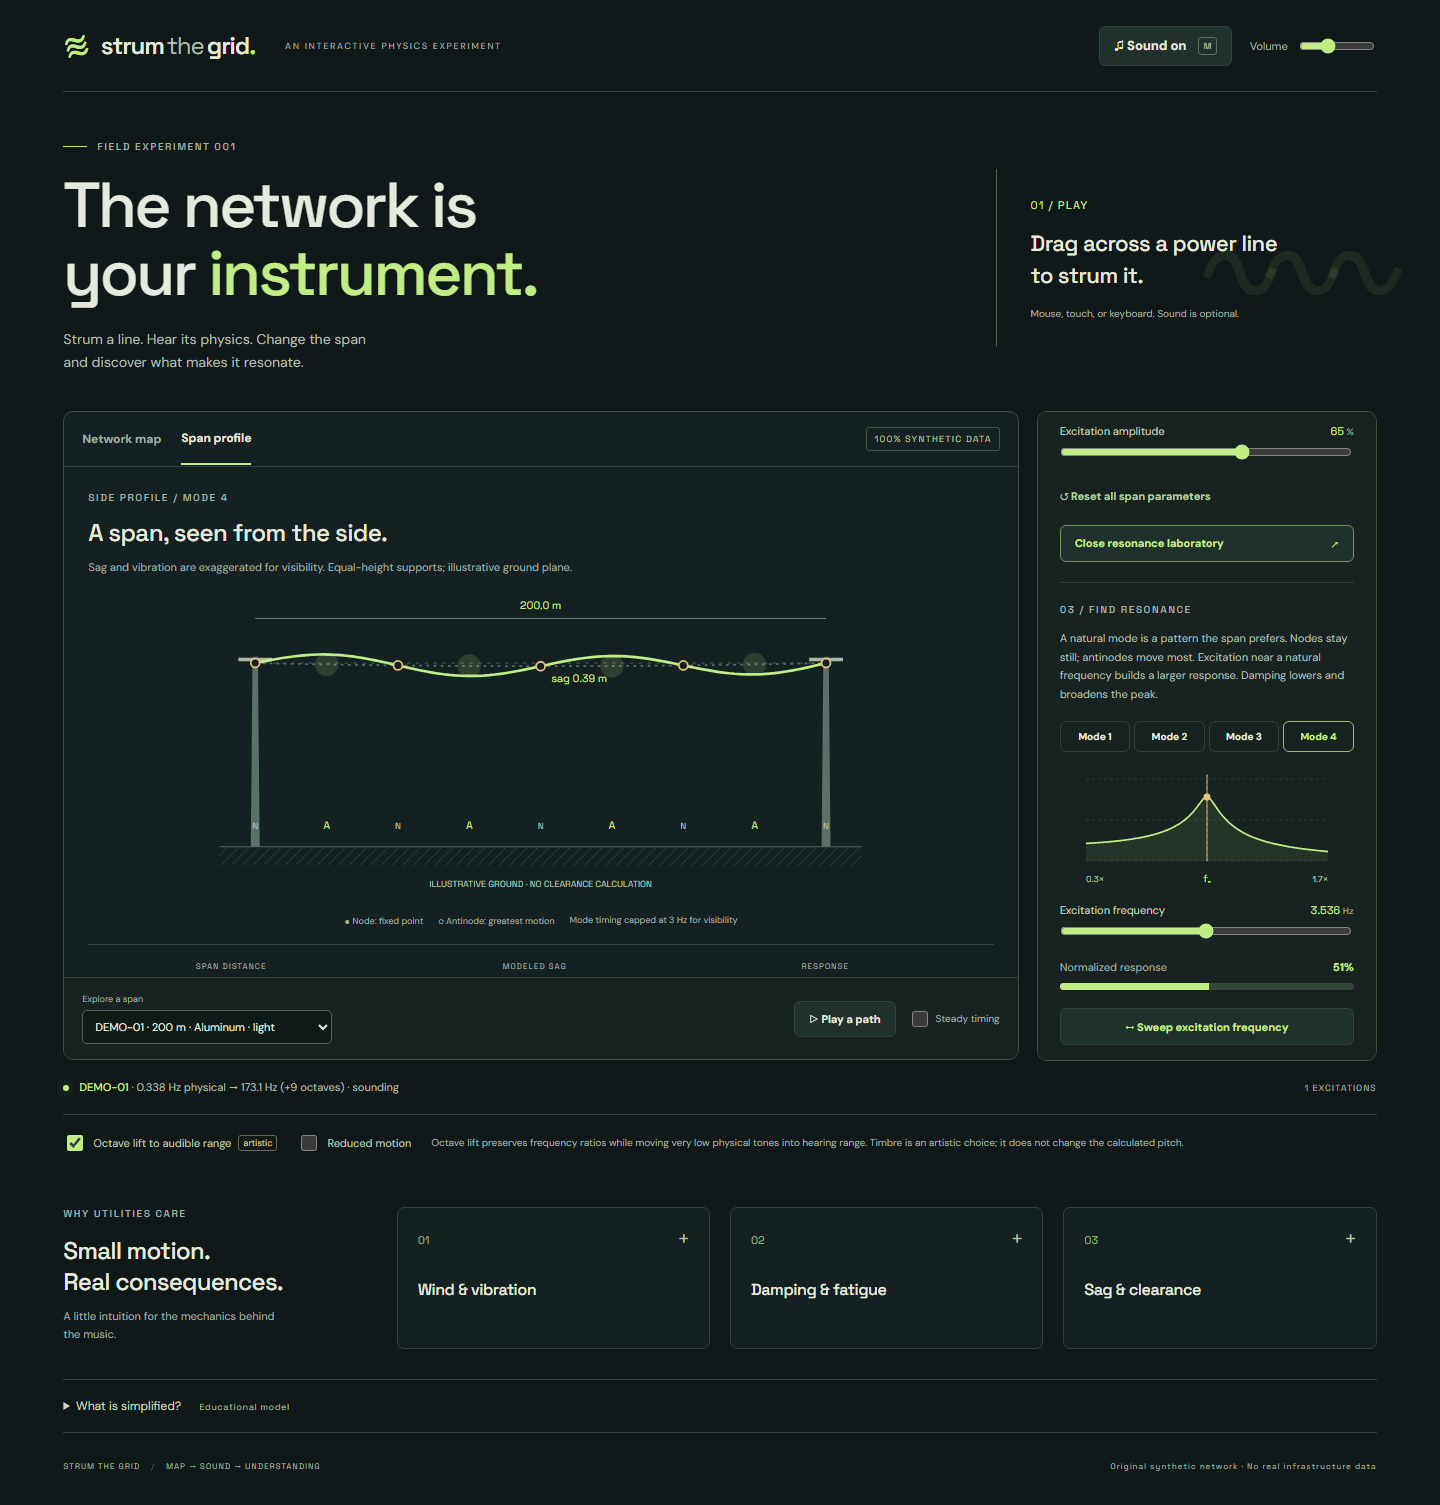
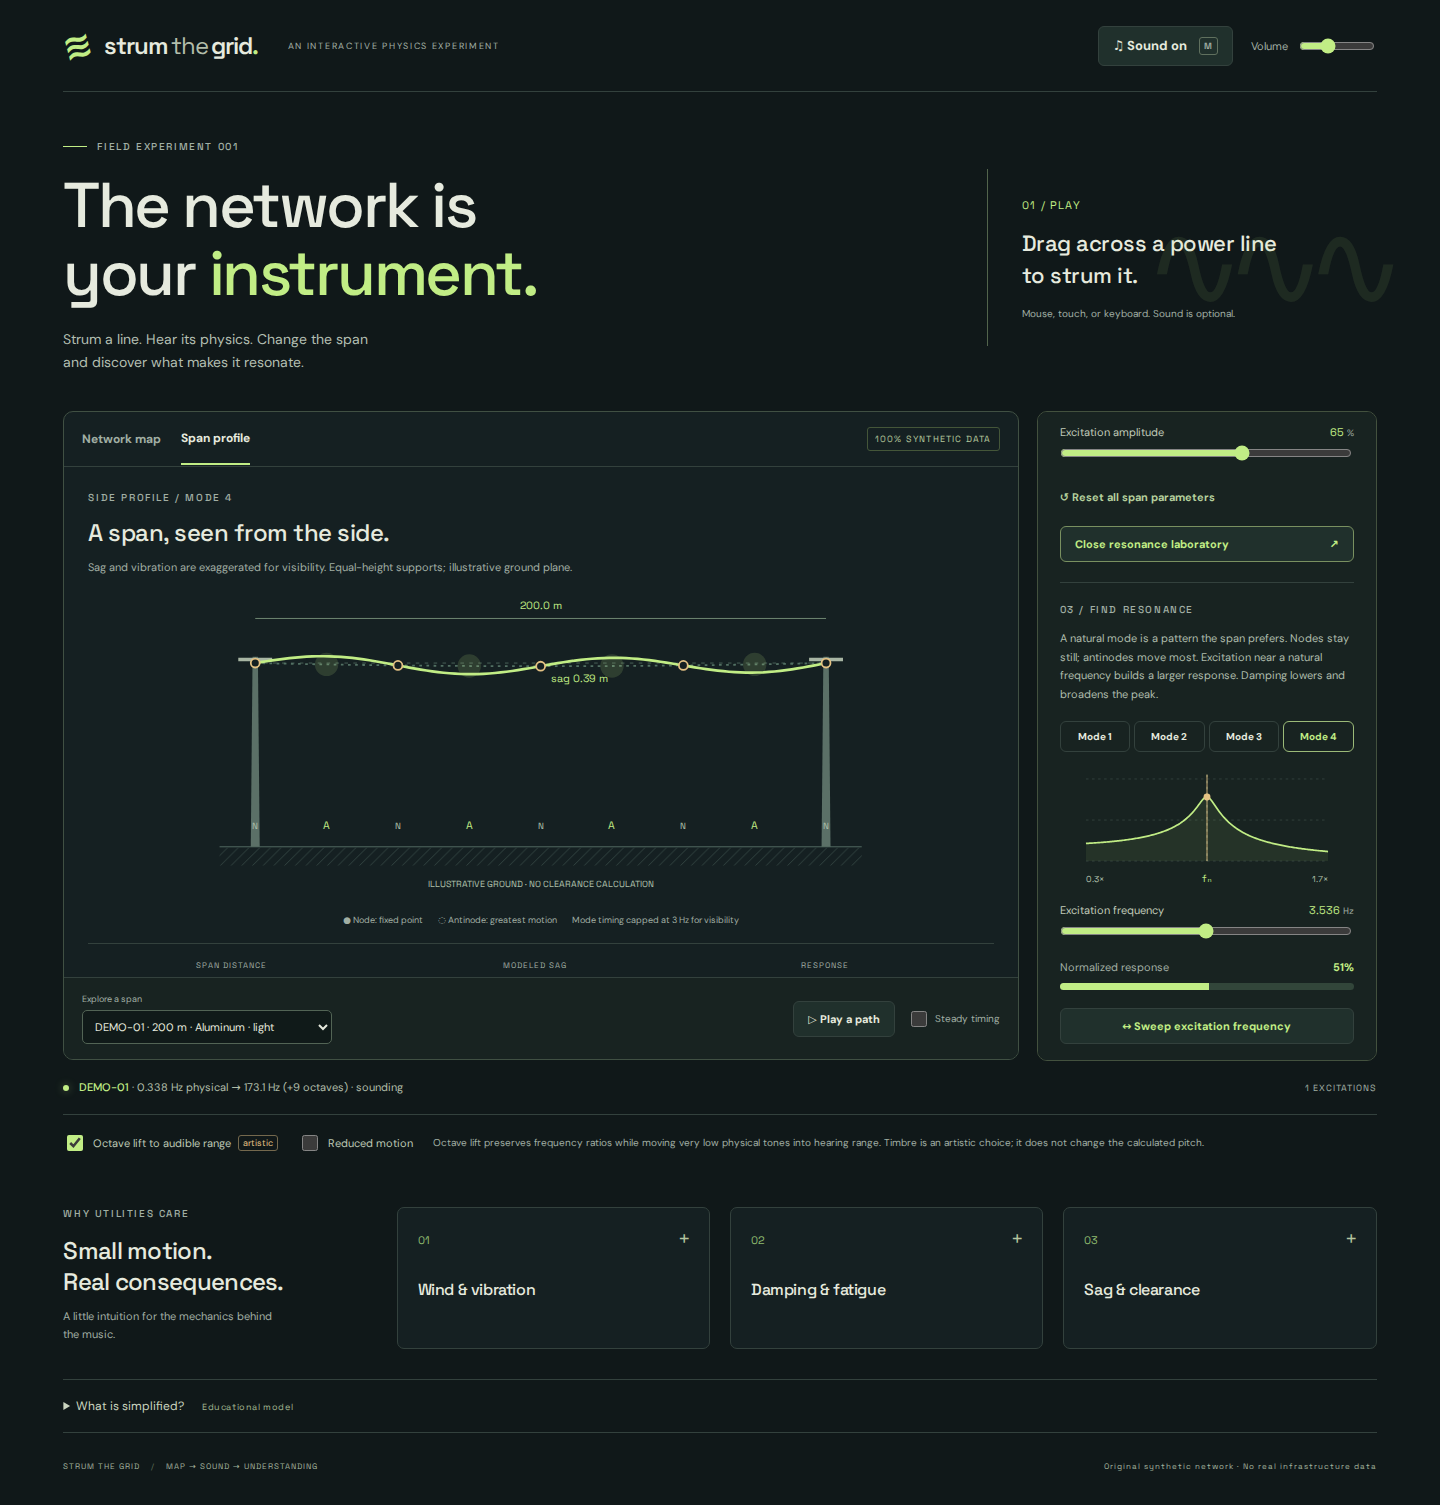
docs: publish verified GitHub Pages demo link

diff --git a/README.md b/README.md
@@ -4,9 +4,11 @@ A browser instrument that turns a **fictional overhead network** into playable s
 
 Built with React, TypeScript, Vite, the ArcGIS Maps SDK for JavaScript, and Web Audio. The default experience runs entirely from bundled synthetic GeoJSON with local SDK assets and fonts: no backend, account, API key, basemap service, or real infrastructure data is needed.
 
-![Synthetic network instrument, captured from the local static build](./docs/screenshots/network.png)
+**[Play the live demo on GitHub Pages](https://danmaps.github.io/strum-the-grid/).**
 
-![Four-mode resonance laboratory, captured from the local static build](./docs/screenshots/laboratory.png)
+![Synthetic network instrument, captured from the live GitHub Pages demo](./docs/screenshots/network.png)
+
+![Four-mode resonance laboratory, captured from the live GitHub Pages demo](./docs/screenshots/laboratory.png)
 
 ## Run locally
 
@@ -55,19 +57,21 @@ npm run preview
 
 Host `dist/` on any static host. For a subdirectory, set `VITE_BASE_PATH` during the build, e.g. `/strum-the-grid/`; Vite modules, fonts, and ArcGIS assets resolve relative to it. No client secrets are required.
 
-`.github/workflows/ci.yml` runs all checks and desktop/mobile browser tests on pull requests and `main`. `.github/workflows/deploy.yml` gates deployment on the same checks and publishes `main` to GitHub Pages using `/strum-the-grid/`. In repository **Settings → Pages**, choose **GitHub Actions** as the source. Pages must be available for the repository's visibility and account plan. Setup currently returns HTTP 422 because the current plan does not support Pages for this private repository; make the repository public or enable a compatible plan before retrying.
+`.github/workflows/ci.yml` runs all checks and desktop/mobile browser tests on pull requests and `main`. `.github/workflows/deploy.yml` gates deployment on the same checks and publishes `main` to GitHub Pages using `/strum-the-grid/`. This public repository has Pages enabled with **GitHub Actions** as the source. For a new repository, configure that source in **Settings → Pages** and ensure Pages is available for its visibility and account plan.
 
-Deployment skips unless the repository Actions variable `PAGES_ENABLED` is exactly `true`, preventing failed deployment attempts while Pages is unavailable. After Pages setup, add that variable in **Settings → Secrets and variables → Actions → Variables**, then push to `main` or run **Deploy GitHub Pages** from the Actions tab. Remove the variable or set it to `false` to pause publishing. Quality checks continue independently on every push and pull request.
+Deployment runs when the repository Actions variable `PAGES_ENABLED` is exactly `true`, as it is here. After Pages setup, add that variable in **Settings → Secrets and variables → Actions → Variables**, then push to `main` or run **Deploy GitHub Pages** from the Actions tab. Remove the variable or set it to `false` to pause publishing. Quality checks continue independently on every push and pull request.
 
-The deployment job reports the actual site URL. The `verify-hosted` job then runs all four desktop/mobile scenarios against that URL, checking the public learning loop, keyboard/touch interaction, audio, and hosted assets. Its screenshots and failure traces are saved as `hosted-browser-test-results`. A live demo link will be added after successful publishing and verification.
+The deployment job reports the actual site URL. The `verify-hosted` job then runs all four desktop/mobile scenarios against that URL, checking the public learning loop, keyboard/touch interaction, audio, and hosted assets. Its screenshots and failure traces are saved as `hosted-browser-test-results`.
+
+[The first public deployment and all four hosted browser checks passed](https://github.com/danmaps/strum-the-grid/actions/runs/37071351111) on October 2, 2026. The screenshots above were captured during that hosted run.
 
 To repeat the checks against an existing deployment, set `PLAYWRIGHT_BASE_URL` to the full site URL, including its subdirectory and trailing slash. This skips the local preview server and does not require a local build:
 
 ```sh
-PLAYWRIGHT_BASE_URL=https://YOUR-HOST/strum-the-grid/ npm run test:browser
+PLAYWRIGHT_BASE_URL=https://danmaps.github.io/strum-the-grid/ npm run test:browser
 ```
 
-In PowerShell, use `$env:PLAYWRIGHT_BASE_URL = 'https://YOUR-HOST/strum-the-grid/'` followed by `npm run test:browser`. Install Playwright Chromium first as described above.
+In PowerShell, use `$env:PLAYWRIGHT_BASE_URL = 'https://danmaps.github.io/strum-the-grid/'` followed by `npm run test:browser`. Install Playwright Chromium first as described above.
 
 ## Architecture
 

diff --git a/docs/IMPLEMENTATION.md b/docs/IMPLEMENTATION.md
@@ -1,6 +1,6 @@
 # MVP acceptance map
 
-This implementation covers the local, deployable behavior requested in issues #1–#12. Live hosting depends on enabling GitHub Pages and publishing these changes; real-device and cross-browser evaluation remains a separate validation step.
+This implementation covers the MVP behavior requested in issues #1–#12. The [public GitHub Pages demo](https://danmaps.github.io/strum-the-grid/) is deployed and verified on desktop Chromium and Chromium mobile emulation; real-device and cross-browser evaluation remains a separate validation step.
 
 | Issue | Behavior and evidence |
 | --- | --- |
@@ -19,7 +19,7 @@ This implementation covers the local, deployable behavior requested in issues #1
 
 ## Verification scope
 
-Local verification: TypeScript typecheck, ESLint, all 29 tests in six unit/integration suites, production build, and four desktop/mobile Chromium end-to-end scenarios pass. npm dependency audit reports zero vulnerabilities. Browser runs check the compiled static output rather than depending on development-server behavior. [Remote quality checks passed for the MVP](https://github.com/danmaps/strum-the-grid/actions/runs/37065892382); live hosting remains pending the repository's Pages eligibility.
+TypeScript typecheck, ESLint, all 29 tests in six unit/integration suites, production build, and four desktop/mobile Chromium end-to-end scenarios pass locally and in CI. npm dependency audit reports zero vulnerabilities. Browser runs check the compiled static output rather than depending on development-server behavior. The [successful Pages workflow](https://github.com/danmaps/strum-the-grid/actions/runs/37071351111) built and tested the subdirectory deployment, published it, and passed all four browser scenarios against the public HTTPS URL on October 2, 2026. The hosted checks found no uncaught errors, HTTP asset failures, unexpected external requests, or mobile horizontal overflow.
 
 - Unit/integration suites test physical laws and responses, data/adapter contracts, immutable experiments, gesture ordering, Web Audio handoff/voice management, and cancellation/connectivity of sequencing.
 - End-to-end suites exercise actual ArcGIS rendering on desktop Chromium and touch-capable mobile Chromium emulation. They cover enable audio, map selection and strum, tension/frequency/sag changes, four-mode resonance, silent/reduced-motion use, keyboard play and stoppable sequencing, while checking no uncaught errors/external requests or mobile horizontal overflow.
@@ -27,5 +27,4 @@ Local verification: TypeScript typecheck, ESLint, all 29 tests in six unit/integ
 - The full demo contains 39 spans. Larger networks, low-end physical phones, pen hardware, Firefox/Safari, and engineering validation are not represented by Chromium emulation or by this educational dataset.
 - No real-data adapter is implemented. Bundled geography is invented; SDK assets and dependencies are build inputs rather than utility records.
 - Production publishing is gated on quality checks and browser tests. After publishing, the deployment workflow runs the same four scenarios against the actual Pages URL, including HTTP asset failures and unexpected external requests. `PLAYWRIGHT_BASE_URL` also allows repeatable checks against an existing deployment without starting a local server.
-- Pages setup returned HTTP 422: the current plan does not support Pages for this private repository. Publishing and the README demo URL require either public repository visibility or a compatible plan. No live deployment is claimed until hosted verification passes.
-- Deployment jobs skip until the repository Actions variable `PAGES_ENABLED` is set to `true` after Pages setup. This prevents repeated deployment failures while hosting is unavailable; quality checks remain automatic.
+- Pages is enabled for this public repository with GitHub Actions as the source and `PAGES_ENABLED=true`. Pushes to `main` publish after checks, then verify the hosted experience. Remove the variable or set it to `false` to pause deployment; quality checks remain automatic.
